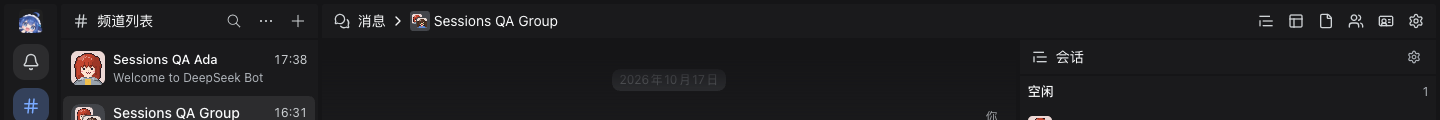
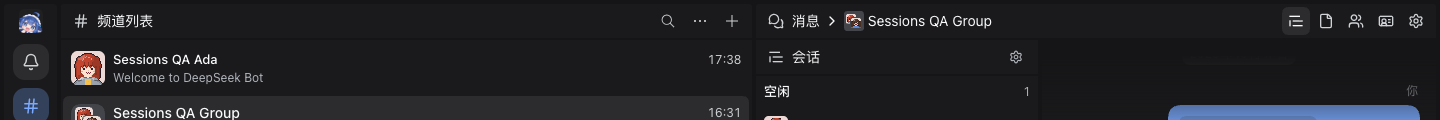
fix(client): manage Channel switches from the header context menu
Issue: #2049
Agent-Task: codex/local/01a145b7-59ea-73c3-9e1f-104d93d7ab60

diff --git a/packages/client/src/client/channel-dock.tsx b/packages/client/src/client/channel-dock.tsx
@@ -1,3 +1,4 @@
+import { BOT_ONLY_CHANNEL_PANELS } from './dock-panels.js';
 import { ChannelWorkspace } from './channel-workspace.js';
 import { workspaceShortcutId } from './workspace-shortcuts.js';
 import { PanelVisibilityLabel } from './panel-menu.js';
@@ -352,6 +353,30 @@ function DockPanelHeader({ entryId, panelId }: { entryId: string | undefined; pa
             label: dock.t('dock.close', { label: panel.title }),
             icon: <ChannelSidebarIcon name="x" />,
           },
+          ...(entryId === CHANNEL_BODY_PANEL &&
+          dock.channel &&
+          dock.sessionWorkspace &&
+          dock.panels.has('sessions')
+            ? [
+                { type: 'separator' as const, id: 'channel-controls-separator' },
+                {
+                  type: 'label' as const,
+                  id: 'channel-controls',
+                  text: dock.t('workspace.channelPanels'),
+                },
+                {
+                  id: 'session-control',
+                  icon: <ChannelSidebarIcon name="text-quote" />,
+                  label: (
+                    <PanelVisibilityLabel
+                      label={dock.t('entry.sessions')}
+                      checked={!dock.sessionWorkspace.state.hiddenControl}
+                      t={dock.t}
+                    />
+                  ),
+                },
+              ]
+            : []),
           ...(entryId === 'sessions' && dock.sessionWorkspace
             ? (['left', 'right', 'above', 'below'] as const).map((direction) => ({
                 id: direction,
@@ -362,7 +387,14 @@ function DockPanelHeader({ entryId, panelId }: { entryId: string | undefined; pa
       : [],
     onSelect: (id) => {
       if (id === 'close') dock.close(panelId);
-      else if (dock.sessionWorkspace)
+      else if (id === 'session-control' && dock.sessionWorkspace) {
+        const state = dock.sessionWorkspace.state;
+        dock.sessionWorkspace.setState({
+          ...state,
+          hiddenControl: !state.hiddenControl,
+          open: state.hiddenControl ? state.open : false,
+        });
+      } else if (dock.sessionWorkspace)
         dock.sessionWorkspace.setState({
           ...dock.sessionWorkspace.state,
           direction: id as DockPosition['direction'],
@@ -497,7 +529,6 @@ function SessionsControl() {
     source?.subscribe ?? EMPTY_SUBSCRIBE,
     source?.getSnapshot ?? EMPTY_CATALOG,
   );
-  const [open, setOpen] = useState(false);
   const state = dock.sessionWorkspace!;
   const label = dock.t('entry.sessions');
   const keys = catalog.find((row) => row.id === workspaceShortcutId('sessions'))?.keys;
@@ -515,42 +546,6 @@ function SessionsControl() {
           </IconButton>
         </Tooltip>
       )}
-      <Menu
-        open={open}
-        portal
-        dense
-        align="end"
-        anchor={
-          <Tooltip label={dock.t('workspace.channelPanels')} side="bottom" delayMs={500}>
-            <IconButton
-              aria-label={dock.t('workspace.channelPanels')}
-              aria-haspopup="menu"
-              aria-expanded={open}
-              disabled={!dock.channel}
-              onClick={() => setOpen(!open)}
-            >
-              <ChannelSidebarIcon name="panels-top-left" />
-            </IconButton>
-          </Tooltip>
-        }
-        items={[
-          {
-            id: 'sessions',
-            icon: <ChannelSidebarIcon name="text-quote" />,
-            label: (
-              <PanelVisibilityLabel label={label} checked={!state.state.hiddenControl} t={dock.t} />
-            ),
-          },
-        ]}
-        onClose={() => setOpen(false)}
-        onSelect={() =>
-          state.setState({
-            ...state.state,
-            hiddenControl: !state.state.hiddenControl,
-            open: state.state.hiddenControl ? state.state.open : false,
-          })
-        }
-      />
     </>
   );
 }
@@ -905,7 +900,7 @@ export function ChannelDock({
   const inboxStateMount = useMountedResource<HTMLSpanElement>(() => {
     if (api) {
       if (workspace && (channel?.type !== 'dm' || !channel.botSlug))
-        for (const id of ['botharness-browser', 'botharness-computer']) layout.current.close(id);
+        for (const id of BOT_ONLY_CHANNEL_PANELS) layout.current.close(id);
       reportOpen(api);
     }
   }, [api, channel?.id, inbox?.open, sessionState.open]);
@@ -949,7 +944,7 @@ export function ChannelDock({
   const canOpen = (panelId: string): boolean => {
     if (!workspace) return true;
     if (panelId === 'sessions') return channel !== undefined;
-    if (['botharness-browser', 'botharness-computer'].includes(panelId))
+    if (BOT_ONLY_CHANNEL_PANELS.includes(panelId))
       return channel?.type === 'dm' && !!channel.botSlug;
     return true;
   };

diff --git a/packages/client/test/channel-dock.test.tsx b/packages/client/test/channel-dock.test.tsx
@@ -797,6 +797,8 @@ it('routes Sessions through its parent, remembers each Channel and preserves con
     component: () => null,
   });
   registry.registerEntry(entry('sessions'));
+  const botOnly = ['memory-files', 'memory-evolution', 'schedules'];
+  for (const id of botOnly) registry.registerEntry(entry(id));
   const workspace = { rail: () => createElement('nav') };
   const view = (id: string) =>
     createElement(
@@ -842,9 +844,19 @@ it('routes Sessions through its parent, remembers each Channel and preserves con
   await settle();
   expect(registry.isOpen('sessions')).toBe(false);
   expect(registry.isOpen(CHANNEL_BODY_PANEL)).toBe(true);
+  for (const id of botOnly) {
+    expect(registry.canOpen?.(id)).toBe(true);
+    act(() => registry.open(id));
+  }
+  await settle();
   act(() => root.render(view('group')));
   await settle();
   expect(registry.isOpen('sessions')).toBe(true);
+  for (const id of botOnly) {
+    expect(registry.canOpen?.(id)).toBe(false);
+    act(() => registry.open(id));
+    expect(registry.isOpen(id)).toBe(false);
+  }
   act(() => root.render(view('ada')));
   await settle();
   expect(registry.isOpen('sessions')).toBe(false);
@@ -866,4 +878,36 @@ it('routes Sessions through its parent, remembers each Channel and preserves con
   await settle();
   expect(registry.isOpen(CHANNEL_BODY_PANEL)).toBe(true);
   expect(registry.isOpen('sessions')).toBe(true);
+  const context = () => host.querySelector('[data-dock-header="bh:channel-body"]')!;
+  act(() =>
+    context().dispatchEvent(
+      new MouseEvent('contextmenu', { bubbles: true, clientX: 40, clientY: 30 }),
+    ),
+  );
+  await settle();
+  const item = document.querySelector<HTMLButtonElement>('[data-menu-item="session-control"]')!;
+  expect(item).not.toBeNull();
+  act(() => item.click());
+  await settle();
+  expect(registry.isOpen('sessions')).toBe(false);
+  expect(readChannelDock(storage)?.channelWorkspaces?.ada?.hiddenControl).toBe(true);
+  expect(context().querySelector('button[aria-label="会话"]')).toBeNull();
+  act(() => root.render(null));
+  await settle();
+  act(() => root.render(view('ada')));
+  await settle();
+  expect(context().querySelector('button[aria-label="会话"]')).toBeNull();
+  act(() =>
+    context().dispatchEvent(
+      new KeyboardEvent('keydown', { key: 'F10', shiftKey: true, bubbles: true }),
+    ),
+  );
+  await settle();
+  act(() =>
+    document.querySelector<HTMLButtonElement>('[data-menu-item="session-control"]')!.click(),
+  );
+  await settle();
+  expect(readChannelDock(storage)?.channelWorkspaces?.ada?.hiddenControl).toBe(false);
+  expect(context().querySelector('button[aria-label="会话"]')).not.toBeNull();
+  expect(registry.isOpen('sessions')).toBe(false);
 });

diff --git a/packages/client/src/client/workspace.tsx b/packages/client/src/client/workspace.tsx
@@ -1,3 +1,4 @@
+import { BOT_ONLY_CHANNEL_PANELS } from './dock-panels.js';
 import { resolveChannelSidebarContext } from './channel-sidebar.js';
 import { usePanelMenu, PanelVisibilityLabel } from './panel-menu.js';
 import type { Shortcuts } from '@deepseek-ai/dsh-client-shortcuts/client';
@@ -183,9 +184,7 @@ function WorkspaceRail({
     () => options.prefs.source.getSnapshot().botIcon,
   );
   const state = useClientState();
-  const botOnlyHidden = resolveChannelSidebarContext(state)?.botSlug
-    ? []
-    : ['botharness-browser', 'botharness-computer'];
+  const botOnlyHidden = resolveChannelSidebarContext(state)?.botSlug ? [] : BOT_ONLY_CHANNEL_PANELS;
   const shortcuts = useSyncExternalStore(
     options.shortcuts.catalog.subscribe,
     options.shortcuts.catalog.getSnapshot,

diff --git a/packages/client/src/client/dock-panels.ts b/packages/client/src/client/dock-panels.ts
@@ -2,6 +2,14 @@ import type { ComponentType } from 'react';
 
 import type { ChannelSidebarEntry } from './channel-sidebar.js';
 
+export const BOT_ONLY_CHANNEL_PANELS: readonly string[] = [
+  'botharness-browser',
+  'botharness-computer',
+  'memory-files',
+  'memory-evolution',
+  'schedules',
+];
+
 export const ACTIVITY_CENTER_PANEL = 'activity-center';
 
 export type DockPanelScope = 'global' | 'channel';

diff --git a/.agents/skills/verify-deepseekbot/features/bot-mode-dock.md b/.agents/skills/verify-deepseekbot/features/bot-mode-dock.md
@@ -82,9 +82,9 @@ The rc.2 native navigator clears archived Sessions. If the real Orchestrator aut
 
 Prepare the Web browser profile with the pre-v4 UI and a visible Sessions panel, then upgrade the task Bundle. Set `BH_BROWSER_PROFILE` to that same isolated browser directory, `BH_E2E_INSTANCE` to the verified Host manifest and `BH_SESSION_SCENE` to existing test Channel/Bot identifiers. Optionally set `BH_LEGACY_LAYOUT` to the original v3 JSON captured from that old UI to replay the migration on the same isolated profile. Run `scripts/e2e-channel-sessions.mjs`; it reads real existing Assignments without sending a model request. The native supplement `scripts/e2e-channel-sessions-desktop.mjs` also requires `BH_DESKTOP_MAIN_CDP` for Electron input dispatch and `BH_SCREENSHOT_DIR`. Never attach to another task's window.
 
-- `channel-session-workspace`: Sessions leaves the outer layout and Control Rail. Messages owns its localized switch, shortcut tooltip and subpanel management menu. Move Sessions to all four sides, drag its header through an indicated target, resize, then refresh. The same message/composer/session nodes survive rearrangement. Side and proportions are independent per stable Channel ID. A header context menu provides keyboard-accessible placement and Close.
+- `channel-session-workspace`: Sessions leaves the outer layout and Control Rail. Messages owns its localized switch, shortcut tooltip and a header context menu for switch visibility (icon, label and checkbox; no separate management button). Hide the Sessions switch from that menu and verify both switch and child disappear, refresh, then recover it from the same menu. Keyboard ContextMenu/Shift+F10 must reach the same menu. Move Sessions to all four sides, drag its header through an indicated target, resize, then refresh. The same message/composer/session nodes survive rearrangement. Side and proportions are independent per stable Channel ID. A header context menu provides keyboard-accessible placement and Close.
 - `channel-session-shortcut`: close Messages, invoke the existing Sessions shortcut, and observe both parent and child. Invoke again to close only the child, then reopen. Customize the binding in Keyboard shortcuts, reload and verify dispatch and tooltip. Explicit unbinding and Work binding precedence/conflicts remain covered by existing shortcut regression tests.
 - `channel-session-migration`: v1/v2 first normalize Work, then v3/v4 migration moves only Sessions. Inspect the original `.before-channel-workspace-v4` backup, unrelated geometry, closed/missing Messages, unknown registrations and explicit hidden switches. Existing per-Channel state wins over the lazy seed. Failed writes keep the original recoverable record. Pure migration and mounted-layout tests cover closed parents and storage failure; do not substitute those for the real Web upgrade.
-- `channel-session-scope`: DM and Group retain separate open states and geometry. Group remains on its existing Assignment query; explicit member-Bot scope must not enable Browser, Computer or Bot Profile controls. Opening or closing Sessions changes no Host execution or permission. No-Channel commands are unavailable.
+- `channel-session-scope`: DM and Group retain separate open states and geometry. Group remains on its existing Assignment query; explicit member-Bot scope must not enable Memory files, Memory evolution, Schedules, Browser, Computer or Bot Profile controls. Opening or closing Sessions changes no Host execution or permission. No-Channel commands are unavailable.
 
 The former flat Sessions scripts are retained only as historical evidence; the new scripts are the maintained entry points. The first slice does not move all other panels, qualify Windows/Linux Desktop, or claim improvements to Browser/Computer empty states. Review captures before publication: test prompts can include local authorization identifiers and must be cropped out.

diff --git a/docs/adr/0221-global-and-channel-workspaces-own-panel-placement.md b/docs/adr/0221-global-and-channel-workspaces-own-panel-placement.md
@@ -21,7 +21,7 @@ The Global workspace contains the unique Workspace Control Rail, global Dock pan
 
 The Control Rail controls global panels and Messages. The Messages header controls Channel subpanels, with localized tooltips, effective shortcut labels and an overflow path for constrained widths. Hiding the parent hides all children while retaining their open states and geometry. Reopening restores them. Neither a parent nor a child visibility action stops Sessions, closes Browser tabs, changes access or creates execution requests.
 
-Sessions is applicable to both PersonaBot DMs and Groups, preserving ADR-0220. Group members belong within the Group's Channel workspace. Browser control, Computer control and PersonaBot Profile require an applicable PersonaBot DM and are absent from Group headers and executable shortcuts. An explicit member-Bot scope in Sessions changes only that query; it cannot enable those Bot-only surfaces. Group Profile and Group settings remain available. Ambiguous Bot-to-Bot conversations must not guess a Bot or reuse the last DM's identity.
+Sessions is applicable to both PersonaBot DMs and Groups, preserving ADR-0220. Group members belong within the Group's Channel workspace. Memory files, Memory evolution, Schedules, Browser control, Computer control and PersonaBot Profile require an applicable PersonaBot DM and are absent from Group headers and executable shortcuts. An explicit member-Bot scope in Sessions changes only that query; it cannot enable those Bot-only surfaces. Group Profile and Group settings remain available. Ambiguous Bot-to-Bot conversations must not guess a Bot or reuse the last DM's identity.
 
 Shared Browser Profiles and Computer Targets can have global resource settings. The fact that multiple Bots use the same physical machine does not make a Bot's tabs, screen access or permissions global. Placement scope is application-defined presentation, not a new DSH permission or resource-isolation mechanism.
 
@@ -35,7 +35,7 @@ Moving or resizing a panel must preserve its content instance, drafts and active
 
 Normalize existing Work-to-Sessions migrations before moving the surviving Sessions entry from the outer layout into Messages. Back up the original record and make migration idempotent. Preserve unrelated panels, unknown registration IDs, parked placement, switch order, gap, and explicit open or closed states. Collapse empty outer nodes. Do not open a closed Messages panel during migration or create duplicates when its old node is absent.
 
-Meaningful adjacency to Messages supplies an inner side and ratio; otherwise start with message content at 70% and Sessions on the right at 30%. The old global Sessions preference seeds Channels lazily; existing new per-Channel preferences win. A previously hidden Sessions rail entry becomes a hidden header-switch preference, recoverable through child-panel management, without disabling its shortcut. Write failure must leave the backup recoverable and must not report a persisted migration as complete.
+Meaningful adjacency to Messages supplies an inner side and ratio; otherwise start with message content at 70% and Sessions on the right at 30%. The old global Sessions preference seeds Channels lazily; existing new per-Channel preferences win. A previously hidden Sessions rail entry becomes a hidden header-switch preference, recoverable through the Messages header context menu, without disabling its shortcut. Write failure must leave the backup recoverable and must not report a persisted migration as complete.
 
 Keep the existing Sessions command identity and native shortcut settings, including custom bindings and explicit unbinding. Keep the default Primary+Alt+Shift+7. Retain the earlier Work binding migration's precedence and conflict handling; do not introduce a competing command or silently overwrite accepted bindings.
 

diff --git a/CONTEXT.md b/CONTEXT.md
@@ -837,7 +837,7 @@ A movable content unit whose declared presentation scope determines its owning w
 _Avoid_: widget, view, pane, DSH main panel
 
 **Messages panel**:
-The unique outer Dock panel that hosts the active Channel workspace. Its header identifies the Channel and controls available Channel subpanels. Hiding Messages hides the entire Channel workspace while preserving its child visibility and geometry preferences; it does not stop execution or revoke access.
+The unique outer Dock panel that hosts the active Channel workspace. Its header identifies the Channel and controls available Channel subpanels. Right-clicking the header manages which subpanel switches appear, using an icon, label and trailing checkbox; hiding a switch also closes its subpanel. There is no separate management button. Hiding Messages hides the entire Channel workspace while preserving its child visibility and geometry preferences; it does not stop execution or revoke access.
 _Avoid_: Channel body, chat sidebar, message list (when referring to the whole panel)
 
 **Channel workspace**:
@@ -845,7 +845,7 @@ The inner presentation space owned by Messages for the active Channel, containin
 _Avoid_: Channel sidebar, nested global workspace, DSH Workspace
 
 **Channel subpanel**:
-A Dock panel within a Channel workspace, opened from the Messages header and visible only while its parent is visible. Availability follows the active Channel and existing access checks. Sessions applies to both PersonaBot DMs and Groups; members applies to Groups. Browser control, Computer control and PersonaBot Profile are Bot-only surfaces and have no entry in Group Channels, even when Sessions is explicitly inspecting a member Bot. Group Profile remains available. Showing or hiding a subpanel changes presentation, not execution or permission.
+A Dock panel within a Channel workspace, opened from the Messages header and visible only while its parent is visible. Availability follows the active Channel and existing access checks. Sessions applies to both PersonaBot DMs and Groups; members applies to Groups. Memory files, Memory evolution, Schedules, Browser control, Computer control and PersonaBot Profile are Bot-only surfaces and have no entry in Group Channels, even when Sessions is explicitly inspecting a member Bot. Group Profile remains available. Showing or hiding a subpanel changes presentation, not execution or permission.
 _Avoid_: Channel sidebar entry, global panel (for Channel-bound content), tab
 
 **Channel settings**:

diff --git a/CONTEXT.zh.md b/CONTEXT.zh.md
@@ -835,7 +835,7 @@ _避免使用_：panel control、panel control sidebar、App Sidebar、频道列
 _避免使用_：widget、view、pane、DSH main panel
 
 **Messages panel**：
-消息面板。承载当前 Channel workspace 的唯一外层 Dock panel。header 标识当前频道并控制可用的频道子面板。隐藏消息面板会隐藏整个频道工作区，同时保留子面板的开关和几何偏好；不停止执行，也不撤销访问权限。
+消息面板。承载当前 Channel workspace 的唯一外层 Dock panel。header 标识当前频道并控制可用的频道子面板。右键 header 通过图标、名称与右侧复选框管理子面板开关的显隐；隐藏开关也会关闭对应子面板，不另设管理按钮。隐藏消息面板会隐藏整个频道工作区，同时保留子面板的开关和几何偏好；不停止执行，也不撤销访问权限。
 _避免使用_：Channel body、聊天侧栏、消息列表（指整个面板时）
 
 **Channel workspace**：
@@ -843,7 +843,7 @@ _避免使用_：Channel body、聊天侧栏、消息列表（指整个面板时
 _避免使用_：Channel sidebar、嵌套全局工作区、DSH Workspace
 
 **Channel subpanel**：
-频道子面板。Channel workspace 内的 Dock panel，从消息 header 打开，仅在父面板可见时显示。可用性跟随当前频道及现有访问检查。会话适用于 PersonaBot 私聊和群聊；成员适用于群聊。浏览器控制、电脑控制和 PersonaBot Profile 是 Bot 专属 surface，群聊不提供这些入口，即使会话正在显式查看某个群成员 Bot 也不例外。群资料仍可使用。子面板开关只改变呈现，不改变执行或权限。
+频道子面板。Channel workspace 内的 Dock panel，从消息 header 打开，仅在父面板可见时显示。可用性跟随当前频道及现有访问检查。会话适用于 PersonaBot 私聊和群聊；成员适用于群聊。记忆文件、记忆演化、定时任务、浏览器控制、电脑控制和 PersonaBot Profile 是 Bot 专属 surface，群聊不提供这些入口，即使会话正在显式查看某个群成员 Bot 也不例外。群资料仍可使用。子面板开关只改变呈现，不改变执行或权限。
 _避免使用_：Channel sidebar entry、全局面板（指频道内容时）、tab
 
 **Channel settings**：

diff --git a/changes/2049-channel-sessions.md b/changes/2049-channel-sessions.md
@@ -4,8 +4,8 @@ section: Changed
 
 ## en
 
-- Sessions now opens inside Messages, with a draggable split and visibility, side and proportions remembered per Channel. Existing layouts and shortcuts migrate; the Sessions shortcut restores a hidden Messages panel. Groups do not expose Bot-only Browser or Computer controls ([#2049](https://github.com/BotHarness/DeepSeekBot/issues/2049)).
+- Sessions now opens inside Messages, with a draggable split and visibility, side and proportions remembered per Channel. Existing layouts and shortcuts migrate; the Sessions shortcut restores a hidden Messages panel. Right-click the Messages header to manage subpanel switch visibility. Groups do not expose Bot-only Memory files, Memory evolution, Schedules, Browser or Computer controls ([#2049](https://github.com/BotHarness/DeepSeekBot/issues/2049)).
 
 ## zh
 
-- 会话现作为消息面板内的子面板显示，支持拖拽分割，并按频道记住开关、方向与比例。旧布局和快捷键保留迁移；会话快捷键可恢复隐藏的消息父面板。群聊不显示 Bot 专属的浏览器与电脑控制入口（[#2049](https://github.com/BotHarness/DeepSeekBot/issues/2049)）。
+- 会话现作为消息面板内的子面板显示，支持拖拽分割，并按频道记住开关、方向与比例。旧布局和快捷键保留迁移；会话快捷键可恢复隐藏的消息父面板。右键消息 header 可管理子面板开关显隐。群聊不显示 Bot 专属的记忆文件、记忆演化、定时任务、浏览器与电脑控制入口（[#2049](https://github.com/BotHarness/DeepSeekBot/issues/2049)）。
